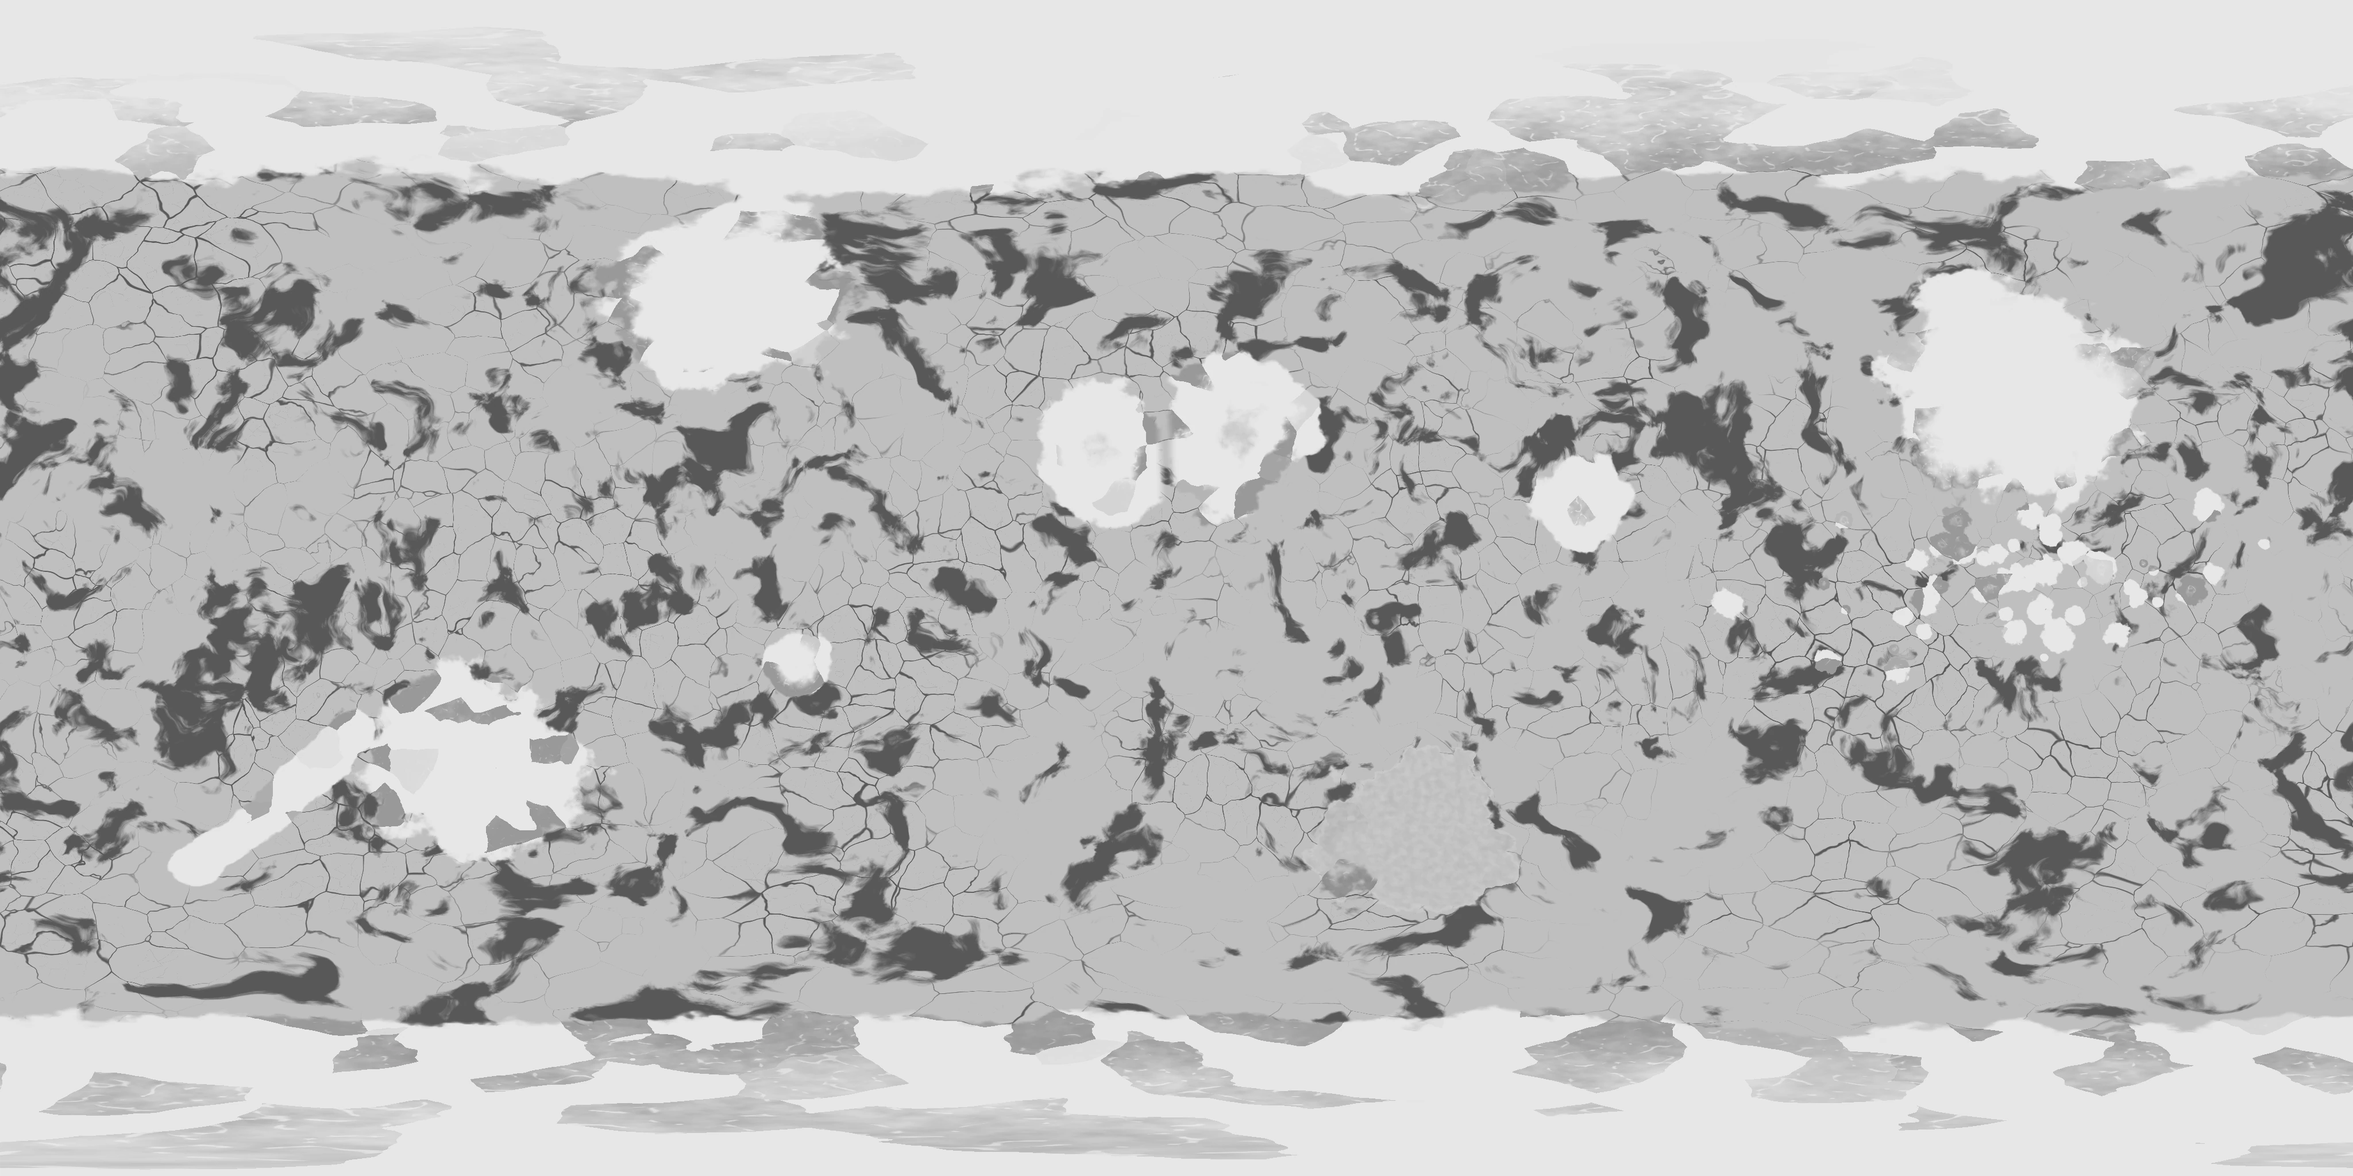
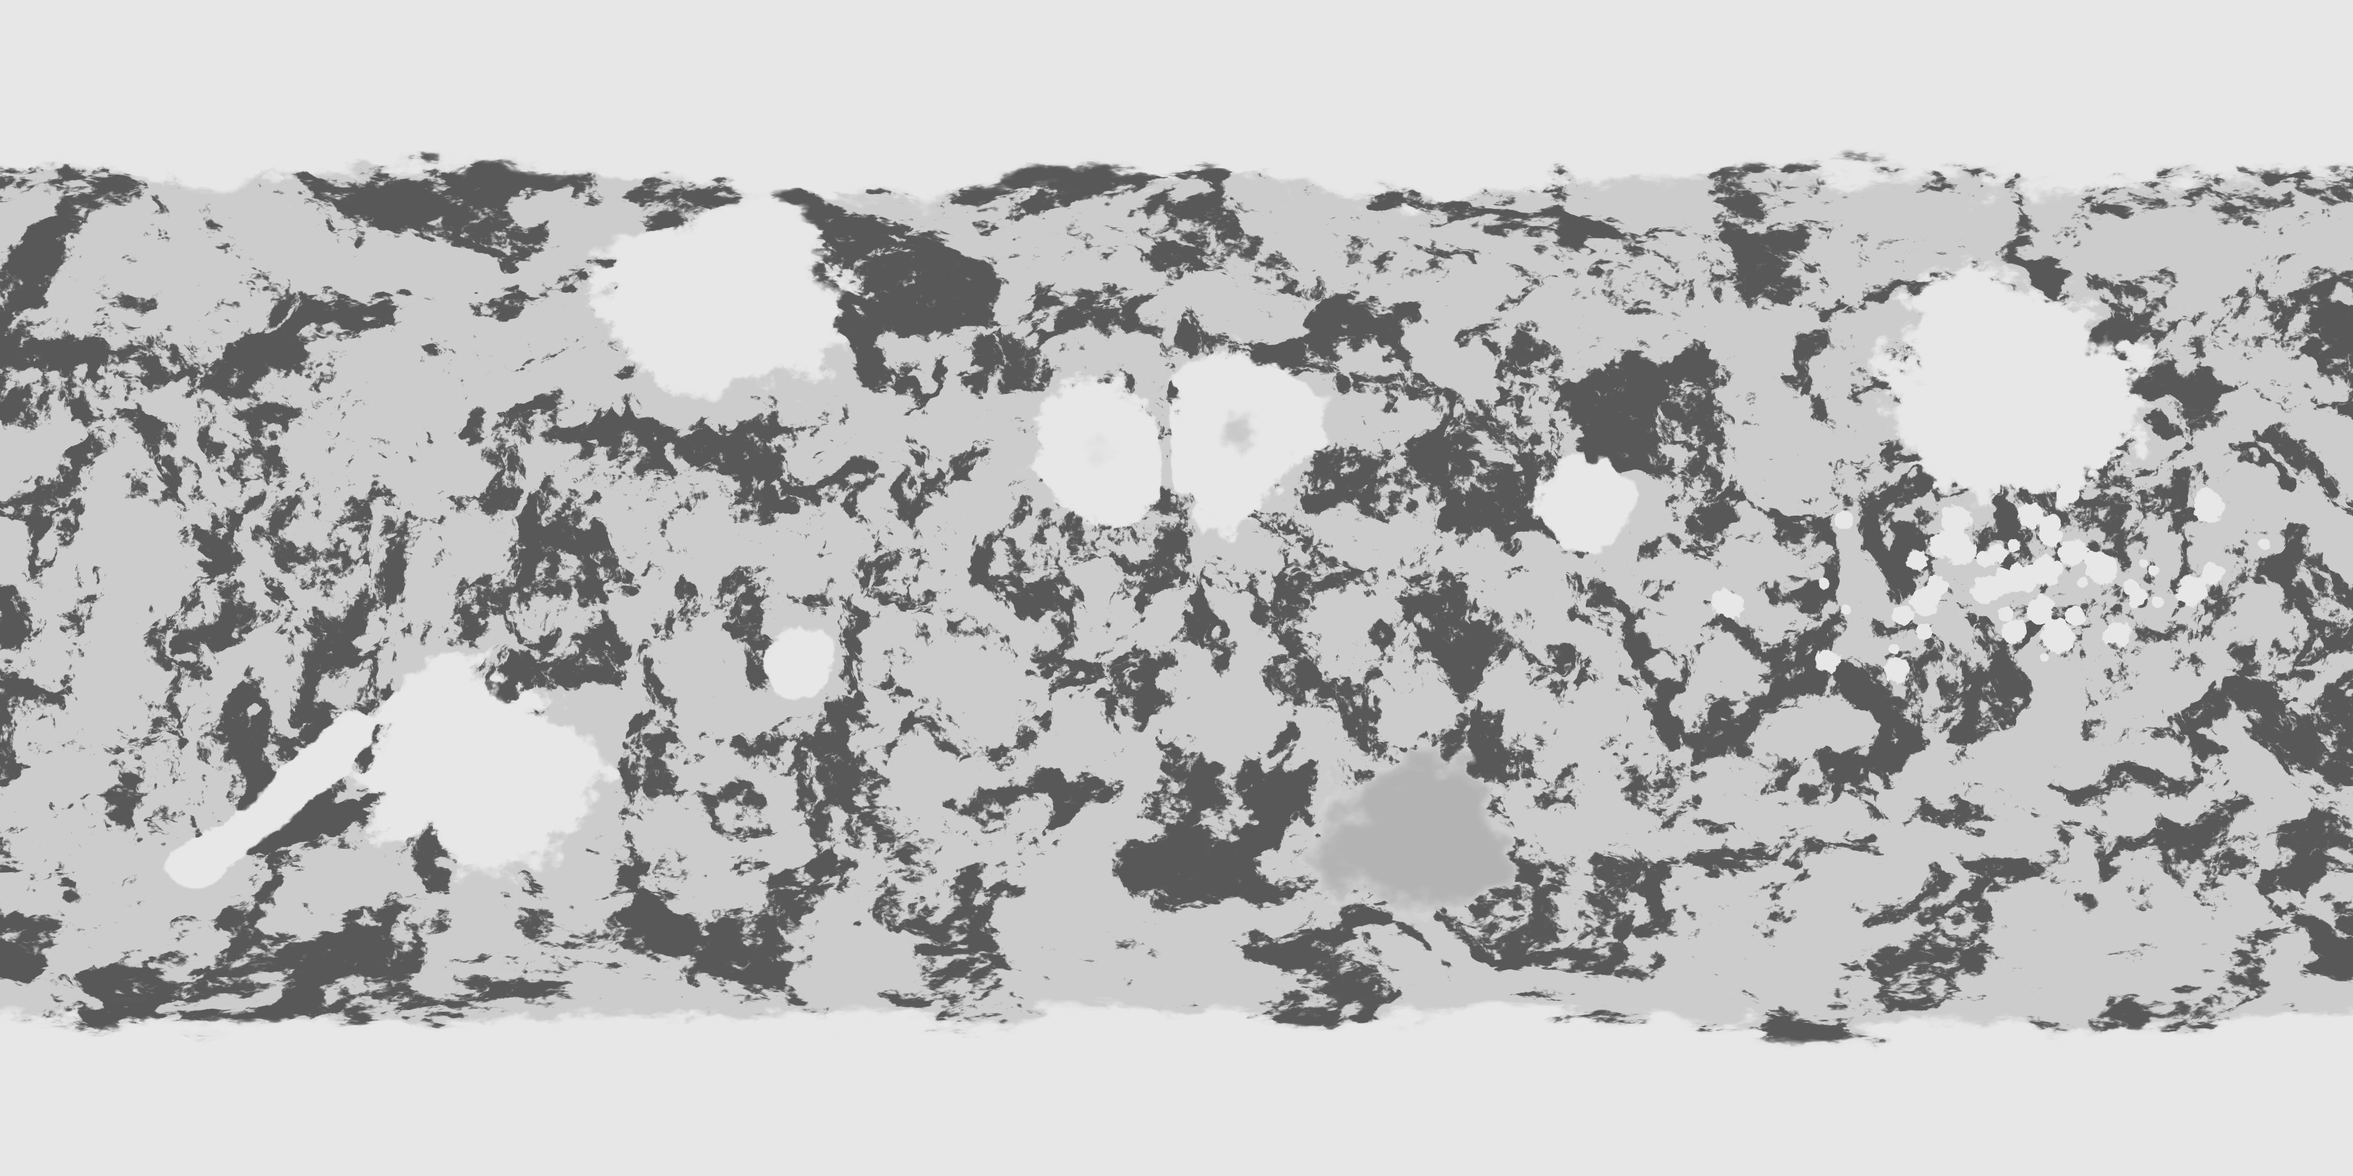
Solar system: calmer suns; Magmus rebuilt as one coherent chaotic field
Per the user's review:
- Suns: slower surfaces, the Red Sun much less frantic; coronas are a
  modest halo with faint streamers.
- Magmus: the layered plates/cracks/rivers/pools didn't join up. Now one
  domain-warped heat field, with grain at every scale, drives lava, coasts
  and land glow, so everything is continuous; Solidlands are that field
  cooled, with soft coasts. Heat leans red-orange with gold highlights,
  closer to the original Blender model.
- /system/lab uses NeutralToneMapping (ACES washed oranges to cream).

Claude-Session: https://claude.ai/code/session_01K8R5kqduobr76DoBg9xGr3

diff --git a/web/src/lib/system/sunShader.ts b/web/src/lib/system/sunShader.ts
@@ -27,8 +27,8 @@ export const YELLOW_SUN: SunLook = {
 	dark: [0.92, 0.52, 0.16],
 	glow: [1.0, 0.82, 0.45],
 	turbulence: 0.55,
-	speed: 0.025,
-	flares: 0.25
+	speed: 0.015,
+	flares: 0.12
 };
 
 export const RED_SUN: SunLook = {
@@ -36,9 +36,9 @@ export const RED_SUN: SunLook = {
 	mid: [0.95, 0.24, 0.06],
 	dark: [0.42, 0.04, 0.02],
 	glow: [1.0, 0.28, 0.08],
-	turbulence: 1.5,
-	speed: 0.07,
-	flares: 0.9
+	turbulence: 0.85,
+	speed: 0.022,
+	flares: 0.3
 };
 
 // 3D simplex noise (Ashima Arts / Stefan Gustavson, MIT licence).
@@ -128,12 +128,12 @@ void main(){
   float t = uTime * uSpeed;
   // Radial falloff from the sun's edge (uInner, in quad units) outwards.
   float d = max(r - uInner*0.985, 0.0) / (1.0 - uInner);
-  float glow = exp(-d*6.0) * 1.0 + exp(-d*2.2) * 0.3;
+  float glow = exp(-d*8.0) * 1.0 + exp(-d*3.0) * 0.32;
   // Streamers and flares: noise around the rim, stretched outwards.
-  vec3 q = vec3(cos(a)*2.0, sin(a)*2.0, d*1.5 - t*2.0);
+  vec3 q = vec3(cos(a)*2.0, sin(a)*2.0, d*1.5 - t*0.6);
   float streak = smoothstep(0.1, 0.8, fbm(q*1.7 + t)) * exp(-d*3.5);
   float flare = pow(max(snoise(vec3(cos(a)*3.0, sin(a)*3.0, t*1.5)), 0.0), 3.0) * exp(-d*4.0);
-  float k = glow + uFlares*(0.8*streak + 1.6*flare);
+  float k = glow + uFlares*(0.5*streak + 0.8*flare);
   k *= smoothstep(1.0, 0.85, r);
   gl_FragColor = vec4(uGlow * k, k);
 }`;

diff --git a/web/src/routes/system/lab/+page.svelte b/web/src/routes/system/lab/+page.svelte
@@ -1,7 +1,7 @@
 <script lang="ts">
 	// A workbench for the solar-system models: look at each sun and planet on its own.
 	import { Canvas, T } from '@threlte/core';
-	import { ACESFilmicToneMapping } from 'three';
+	import { NeutralToneMapping } from 'three';
 	import { OrbitControls, Stars } from '@threlte/extras';
 	import Planet from '$lib/system/Planet.svelte';
 	import Sun from '$lib/system/Sun.svelte';
@@ -31,7 +31,7 @@
 <svelte:head><title>System lab</title></svelte:head>
 
 <div class="lab">
-	<Canvas toneMapping={ACESFilmicToneMapping}>
+	<Canvas toneMapping={NeutralToneMapping}>
 		{#key view}
 			<T.PerspectiveCamera makeDefault position={view === 'suns' ? [0, 2, 14] : [0, 0.6, 3.4]} fov={45}>
 				<OrbitControls enableDamping minDistance={1.3} maxDistance={40} />
@@ -47,10 +47,10 @@
 			<Sun look={RED_SUN} />
 		{:else}
 			<T.AmbientLight intensity={0.08} />
-			<Sun look={YELLOW_SUN} radius={1.2} position={[-26, 3, 14]} intensity={2.6} />
+			<Sun look={YELLOW_SUN} radius={1.2} position={[-26, 3, 14]} intensity={1.2} />
 			<Planet
 				slug="magmus"
-				glow={1}
+				glow={0.55}
 				face={0}
 				flicker={1}
 				spin={0.004}

diff --git a/web/src/lib/system/Sun.svelte b/web/src/lib/system/Sun.svelte
@@ -12,7 +12,7 @@
 	};
 	let { look, radius = 1, position = [0, 0, 0], intensity = 3 }: Props = $props();
 
-	const CORONA = 3.2; // corona size, in sun radii
+	const CORONA = 2.6; // corona size, in sun radii
 	// The look is fixed for a sun's lifetime, so the materials are built once.
 	// svelte-ignore state_referenced_locally
 	const surface = sunSurfaceMaterial(look);

diff --git a/tools/planets/magmus.py b/tools/planets/magmus.py
@@ -30,8 +30,6 @@ from pathlib import Path
 import numpy as np
 
 from planetgen import (
-    worley,
-    veins,
     ramp,
     Noise3,
     angular_distance,
@@ -139,7 +137,7 @@ def generate(width: int, out: Path) -> None:
         if s["kind"] == "cap":
             edge = s["edge"] + coast * 6
             t = (lat_deg - edge) * s["pole"]
-            mask = smoothstep(-0.6, 0.6, t)
+            mask = smoothstep(-4, 4, t)
             add(mask, s["height"] * (0.6 + 0.4 * smoothstep(0, 15, t)))
         elif s["kind"] == "archipelago":
             rng = np.random.default_rng(SEED + 7)
@@ -148,14 +146,14 @@ def generate(width: int, out: Path) -> None:
                 lo = s["lon"] + rng.normal() * s["spread"][1] / 2
                 r = rng.uniform(0.6, 2.6)
                 d = angular_distance(g, la, lo) / r + coast * 0.35 + 0.45 * fine
-                add(smoothstep(1.0, 0.85, d), s["height"] * profile_height("cone", np.clip(d, 0, 1), g) + 0.04)
+                add(smoothstep(1.2, 0.7, d), s["height"] * profile_height("cone", np.clip(d, 0, 1), g) + 0.04)
         else:
             if s["kind"] == "strip":
                 d = segment_distance(g, s["a"], s["b"])
             else:
                 d = angular_distance(g, s["lat"], s["lon"])
             t = d / s["r"] + coast * 0.55
-            mask = smoothstep(1.0, 0.9, t)
+            mask = smoothstep(1.25, 0.7, t)
             add(mask, s["height"] * profile_height(s["profile"], np.clip(t, 0, 1.2), g))
             if s["profile"] in ("mountain", "cone"):
                 glow_vents = np.maximum(glow_vents, smoothstep(0.16, 0.0, t))
@@ -169,100 +167,66 @@ def generate(width: int, out: Path) -> None:
     sea = 1 - land
     print(f"  features {time.time() - t0:.1f}s")
 
-    # ---- Land relief: broken, multi-scale volcanic ground everywhere, ridges in the mountains.
+    # One chaotic heat field drives everything: lava, coasts and the glow on the land.
+    # (Separate pattern systems for plates, cracks and rivers didn't join up; one field does.)
+    warp = np.stack([fbm(n1, p * 2.5 + 11, 5), fbm(n2, p * 2.5 + 23, 5), fbm(n3, p * 2.5 + 37, 5)], -1)
+    warp2 = np.stack([fbm(n3, p * 6 + warp * 1.2 + 5, 4), fbm(n1, p * 6 + warp * 1.2 + 9, 4), fbm(n2, p * 6 + warp * 1.2 + 13, 4)], -1)
     n4, n5 = Noise3(SEED + 3), Noise3(SEED + 4)
-    ridges = ridged(n3, p * 14.0, octaves=6)
-    rough_ground = fbm(n4, p * 60.0, octaves=5)  # metre-scale rubble, flows, cones
-    cones = smoothstep(0.80, 0.95, ridged(n5, p * 34.0, octaves=2))  # small cinder cones and spatter ridges
-    mountainous = smoothstep(0.3, 0.9, elev)
-    elev_full = elev + land * (0.07 * detail + 0.04 * rough_ground + 0.06 * cones + 0.3 * mountainous * (ridges - 0.45))
-    elev_full = np.clip(elev_full, 0, 1.3)
-    print(f"  land {time.time() - t0:.1f}s")
+    field = fbm(n2, p * 4.5 + warp * 1.8 + warp2 * 0.6, octaves=10)
+    # Fine grain at every scale (the original Blender Magmus's strength), riding the same flow.
+    field = field + 0.3 * fbm(n4, p * 30 + warp2 * 2.0, octaves=6) + 0.14 * fbm(n5, p * 120 + warp2 * 4.0, octaves=4)
+    # Rank-normalise to 0..1 so the proportions hold at any resolution.
+    u = (np.argsort(np.argsort(field.ravel())) / (field.size - 1)).reshape(field.shape).astype(np.float32)
+    print(f"  field {time.time() - t0:.1f}s")
 
-    # ---- Lava: one heat field (0 cold crust … 1 white-hot) drives colour and glow.
-    warp = np.stack([fbm(n1, p * 3 + 11, 4), fbm(n2, p * 3 + 23, 4), fbm(n3, p * 3 + 37, 4)], -1)
-    swirl = fbm(n2, p * 6 + warp * 1.6, octaves=8)
-    q = np.quantile(swirl, [0.04, 0.12, 0.35, 0.7])
-    # Open molten lava in the lowest swirls, cooling through orange and red into crust.
-    flow_heat = np.interp(swirl, q, [1.0, 0.62, 0.16, 0.04]).astype(np.float32)
-    # Crust plates: cooler plate interiors, hotter edges; a branching crack network at two scales.
-    plates = ridged(n4, p * 9 + warp * 1.2, octaves=3)
-    # Crust breaks into polygonal plates (cellular noise): rifts of varying width between big
-    # plates, finer cracks within them. Each plate has its own temperature, and crust is
-    # warmer near a crack.
-    wob = fbm(n4, p * 30, octaves=3)[..., None] * 0.06
-    f1, f2, cell = worley(p * 11 + warp * 0.9 + wob, SEED + 21)
-    edge_big = f2 - f1
-    width = 0.03 + 0.05 * smoothstep(-0.3, 0.5, fbm(n5, p * 8, 3))
-    cracks_big = smoothstep(width, 0.0, edge_big)
-    g1, g2, cell_s = worley(p * 34 + warp * 1.6 + wob * 2, SEED + 22)
-    cracks_mid = smoothstep(0.06, 0.0, g2 - g1) * smoothstep(0.2, 0.6, cell_s)  # not every plate is cracked
-    print(f"  plates {time.time() - t0:.1f}s")
-    plate_heat = 0.02 + 0.15 * cell ** 4 + 0.04 * cell_s
-    near_crack = np.exp(-edge_big / 0.08) * 0.12
-    cracks_mid_heat = cracks_mid * 0.45
-    # Regions differ: active zones have hot, wide rifts; calm ones dull red seams.
-    activity = smoothstep(-0.35, 0.35, fbm(n3, p * 2.5 + 5, 4))
-    crack_heat = cracks_big * (0.18 + 0.55 * activity + 0.2 * cell)
-    sea_heat = np.maximum.reduce([flow_heat, crack_heat, cracks_mid_heat * (0.5 + 0.5 * activity), plate_heat + near_crack])
-    plates = cell
-    print(f"  lava {time.time() - t0:.1f}s")
+    # Coasts follow the field: hot lava eats into the land's edge, cool crust extends it.
+    land = smoothstep(0.35, 0.65, land + (0.5 - u) * 0.55)
+    elev = elev * land
+    sea = 1 - land
 
-    # Rivers on land: a branching network that crosses the Solidlands from sea to sea, avoiding
-    # the high ground; fine fissures feed it. Vents glow at the summits.
-    rivers = np.maximum(veins(n3, p * 7 + warp * 1.0, 0.05), veins(n4, p * 16 + warp * 1.5, 0.035) * 0.7)
-    rivers *= smoothstep(0.6, 0.15, elev_full)
-    fissures = cracks_mid * smoothstep(0.8, 0.2, elev_full) * 0.8
-    # Shorelines crumble: the land's edge is cooling flows and spatter, not a clean line.
-    shore = smoothstep(0.0, 0.35, land) * smoothstep(0.95, 0.45, land)
-    land_heat = np.maximum.reduce([rivers * 0.85, fissures * 0.5, glow_vents * 0.95, shore * (0.3 + 0.5 * cracks_big)])
-
+    # Lava: about half cooled dark crust, the rest glowing in a continuous range.
+    sea_heat = smoothstep(0.22, 1.0, u) ** 1.6
+    # Land: the same field, cooled to dim embers, with its hottest threads still glowing as
+    # rivers and fissures; vents at the summits.
+    land_heat = np.maximum.reduce([sea_heat * 0.14, smoothstep(0.955, 0.995, u) * 0.8, glow_vents * 0.95])
     heat = land * land_heat + sea * sea_heat
-    # Colours of heat: deep red → red → orange → yellow-orange → yellow-white.
-    heat_rgb = ramp(heat, [(0.0, (0, 0, 0)), (0.08, (0.28, 0.02, 0.0)), (0.25, (0.75, 0.09, 0.01)),
-                           (0.45, (1.0, 0.30, 0.03)), (0.7, (1.0, 0.58, 0.10)), (1.0, (1.0, 0.88, 0.5))])
-    emissive = heat_rgb * (heat ** 1.2)[..., None]
+    heat_rgb = ramp(heat, [(0.0, (0, 0, 0)), (0.1, (0.30, 0.03, 0.0)), (0.28, (0.62, 0.08, 0.01)),
+                           (0.5, (0.92, 0.25, 0.02)), (0.7, (1.0, 0.45, 0.05)), (0.86, (1.0, 0.66, 0.14)),
+                           (1.0, (1.0, 0.86, 0.45))])
+    emissive = heat_rgb * (0.25 + 0.75 * heat)[..., None] * smoothstep(0.0, 0.12, heat)[..., None]
 
-    # ---- Towns: warm-white lights, so there's visible civilisation on the night side.
+    # Towns: faint warm lights on the land, visible on the night side.
     rng = np.random.default_rng(SEED + 11)
     lights = np.zeros(g.lat.shape, np.float32)
     towns = [(pp["lat"], pp["lon"], 1.0) for pp in PINS if pp["name"] in TOWN_LIGHTS]
-    for s_ in SOLIDLANDS:  # scattered smaller settlements on every Solidland
+    for s_ in SOLIDLANDS:
         if s_["kind"] in ("blob", "strip"):
             c = (s_["lat"], s_["lon"]) if s_["kind"] == "blob" else tuple((np.array(s_["a"]) + np.array(s_["b"])) / 2)
             for _ in range(3):
                 towns.append((c[0] + rng.normal() * 3, c[1] + rng.normal() * 3, 0.45))
     for la, lo, w in towns:
         d = angular_distance(g, la, lo)
-        cluster = np.exp(-(d / (0.9 * w + 0.4)) ** 2)
-        lights = np.maximum(lights, cluster * smoothstep(0.55, 0.85, (fine + 1) / 2 + 0.2 * w) * w)
-    lights *= land
-    emissive += lights[..., None] * np.array([1.0, 0.82, 0.55], np.float32) * 0.8
+        lights = np.maximum(lights, np.exp(-(d / (0.9 * w + 0.4)) ** 2) * smoothstep(0.55, 0.85, (fine + 1) / 2 + 0.2 * w) * w)
+    lights *= smoothstep(0.6, 0.9, land)
+    emissive += lights[..., None] * np.array([1.0, 0.82, 0.55], np.float32) * 0.45
 
-    # ---- Albedo: basalt, rust and ochre, sulphur near heat, ash on the heights, obsidian flows.
+    # Albedo: crust and rock share the field's mottling, so lava and land read as one world.
+    crust = ramp(u, [(0.0, (0.05, 0.03, 0.025)), (0.2, (0.12, 0.05, 0.03)), (0.35, (0.22, 0.07, 0.03))])
     t = np.clip(0.5 + 0.8 * detail, 0, 1)
-    rock = ramp(t, [(0.0, (0.11, 0.10, 0.10)), (0.3, (0.22, 0.18, 0.15)), (0.55, (0.38, 0.22, 0.12)),
-                    (0.75, (0.52, 0.33, 0.15)), (0.9, (0.36, 0.30, 0.24)), (1.0, (0.28, 0.25, 0.22))])
-    rubble = (0.85 + 0.3 * rough_ground)[..., None]
-    rock = rock * rubble
-    # Solidlands are old cooled lava: fractured into blocks with dark joints.
-    joints = smoothstep(0.0, 0.05, g2 - g1) * 0.35 + smoothstep(0.0, 0.08, edge_big) * 0.25 + 0.4
-    rock = rock * joints[..., None] * 1.35
-    sulphur = (smoothstep(0.15, 0.5, np.maximum(land_heat, glow_vents * 0.6)) * smoothstep(-0.1, 0.4, fine))[..., None]
-    rock = rock * (1 - sulphur * 0.7) + np.array([0.62, 0.55, 0.18], np.float32) * sulphur * 0.7
-    ashy = np.clip(np.maximum(ash, smoothstep(0.7, 1.05, elev_full) * 0.7) * (0.7 + 0.3 * rough_ground), 0, 1)[..., None]
-    rock = rock * (1 - ashy) + np.array([0.46, 0.44, 0.41], np.float32) * ashy
-    obsidian = smoothstep(0.7, 0.85, plates) * smoothstep(0.3, 0.1, elev_full) * 0.6
-    rock = rock * (1 - obsidian[..., None] * 0.8) + np.array([0.03, 0.03, 0.035], np.float32) * obsidian[..., None] * 0.8
-    crust_c = ramp(plates, [(0.0, (0.05, 0.045, 0.045)), (0.5, (0.09, 0.05, 0.04)), (1.0, (0.16, 0.06, 0.04))])
-    crust_c = crust_c * (0.8 + 0.4 * (rough_ground[..., None] + 1) / 2)
-    hot = smoothstep(0.4, 0.85, heat)[..., None]
-    base = rock * land[..., None] + crust_c * sea[..., None]
-    albedo = base * (1 - hot) + heat_rgb * 0.8 * hot
+    rock = ramp(t, [(0.0, (0.10, 0.09, 0.09)), (0.4, (0.20, 0.16, 0.13)), (0.7, (0.34, 0.20, 0.11)), (1.0, (0.28, 0.24, 0.20))])
+    rock = rock * (0.75 + 0.5 * u)[..., None]
+    ashy = np.clip(np.maximum(ash, smoothstep(0.7, 1.05, elev) * 0.6), 0, 1)[..., None]
+    rock = rock * (1 - ashy) + np.array([0.42, 0.40, 0.37], np.float32) * ashy
+    base = rock * land[..., None] + crust * sea[..., None]
+    hot = smoothstep(0.1, 0.6, heat)[..., None]
+    albedo = base * (1 - hot) + heat_rgb * 0.7 * hot
 
-    # ---- Roughness and height
-    rough = land * (0.9 - 0.5 * obsidian - 0.2 * ashy[..., 0]) + sea * (0.75 - 0.4 * smoothstep(0.3, 0.8, heat))
-    height = land * elev_full + sea * (0.012 * plates - 0.01 * smoothstep(0.3, 0.8, heat))
+    # Relief: mountains and land texture, gentle ripples in the crust.
+    ridges = ridged(n3, p * 14.0, octaves=6)
+    mountainous = smoothstep(0.3, 0.9, elev)
+    elev_full = elev + land * (0.06 * detail + 0.25 * mountainous * (ridges - 0.45))
+    height = np.clip(elev_full, 0, 1.3) + sea * 0.015 * (1 - u)
+    rough = land * (0.9 - 0.2 * ashy[..., 0]) + sea * (0.8 - 0.45 * smoothstep(0.3, 0.8, heat))
 
     out.mkdir(parents=True, exist_ok=True)
     save_rgb(out / "albedo.webp", albedo)

diff --git a/.ideas/projects/solar-system-3d/README.md b/.ideas/projects/solar-system-3d/README.md
@@ -162,17 +162,24 @@ Built so far, in this repo:
 
 Next: the other planets and moons (see `assets.md`), then the fly-through UI.
 
-### Look-and-feel lessons (from the user's review)
+### Look-and-feel lessons (from the user's reviews)
 
+- **One coherent pattern beats many.** Magmus round 2 layered separate systems (crust
+  plates, crack lines, rivers, pools, land texture); each looked fine alone but they didn't
+  join up, and the user found it worse than both round 1 and the original Blender model.
+  What works: one domain-warped field with detail at every scale drives lava, coasts and
+  land glow together. The land is that field cooled and darkened, with soft coasts shaped
+  by it, so there's continuity everywhere. Compare against the original Blender model
+  (`solars/static/models/Magmus.glb`), which the user likes for selling "chaotic fire planet".
+- **A full heat range**, leaning red-orange: black → deep red → red → orange → gold, with
+  yellow-white only in the hottest spots. Keep plenty of glowing area (~60%).
 - **Self-lit bodies stay bright to the edge.** Strong limb darkening on a sun, then a corona
   starting outside it, leaves a dark ring. Keep darkening gentle and overlap the glow.
-- **Heat is a continuous range**, not crust vs molten: black → deep red → red → orange →
-  yellow-white, varying by region (active vs calm) and by crust plate.
-- **Lava crust breaks into polygonal plates** (cellular noise), not wiggly contour lines.
-  Thresholded multi-octave noise breaks lines into dashes; avoid it for cracks.
-- **Land needs texture and life**: fractured blocks, rust/ochre/sulphur/ash colours, relief,
-  glowing rivers crossing it, and town lights so civilisation is plausible.
-- **Motion matters**: the glow pulses and shimmers in the app (`flicker`).
+- **Restraint in motion.** The user found the Red Sun's churn and both coronas too much.
+  Surfaces now move slowly; coronas are a modest halo with faint streamers.
+- **Tone mapping:** use `NeutralToneMapping`. ACES washed bright oranges to cream.
+- **Judge motion at real speed.** Headless captures run slow; build GIFs from real frame
+  timestamps (or say they're sped up).
 
 ## Vision (from the user, Nov 2026)
 
